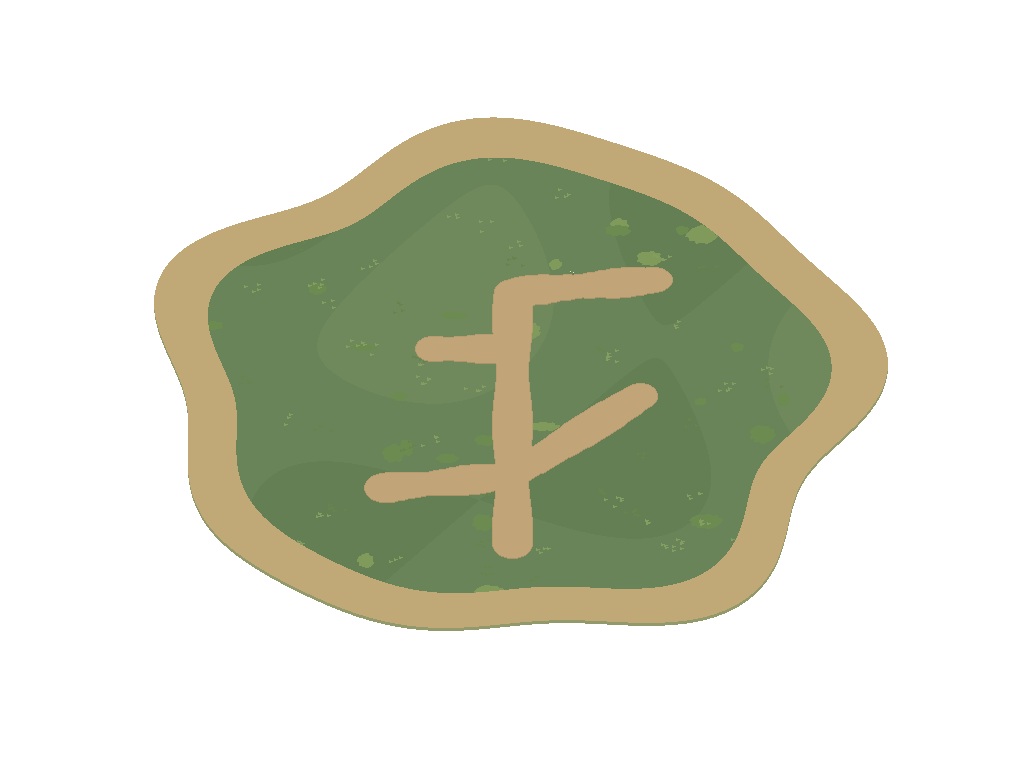
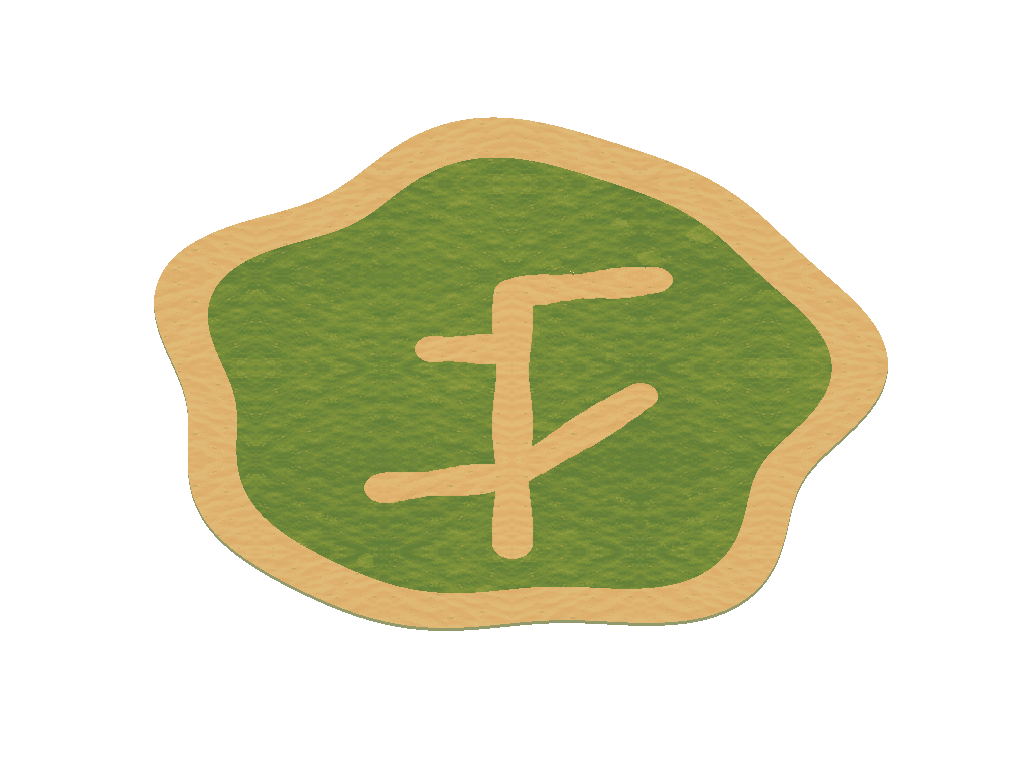
Share village ground materials across the outlying islands

diff --git a/frontend/scripts/pixel_art/place_ground.py b/frontend/scripts/pixel_art/place_ground.py
@@ -7,6 +7,12 @@ from subprocess import check_output
 from random import Random
 from math import sin, cos
 from ground import point
+from place_materials import REGIONAL_MATERIALS, paint_region
+
+SAND=(193,168,119,255)
+GRASS_PATCHES=((107,139,80,255),(128,154,92,255))
+GRASS_TUFTS=((102,132,76,255),(131,158,96,255))
+PATH_PALETTE=((193,165,121,255),(171,151,111,255),(172,148,106,255),(181,157,113,255))
 PATHS={
  'saltreach_harbor': [[(0,19),(0,12),(0,5),(0,-9)],[(-23,0),(-19,0),(-9,-2),(1,-2),(12,-2),(21,-3)],[(-8,10.3),(0,10.3),(9,10.6)],[(3,8.5),(0,8.5)], [(-1,3.5),(0,3.5)]],
  'home_islet': [[(0,14),(0,-12)],[(-8,7.5),(7,7.5)],[(-8,-5.5),(7,-5.5)]],
@@ -24,7 +30,7 @@ def ground(root,id):
     for y in range(h):
         for x in range(w):
             c=classes[y*w+x]
-            if c in [1,2]:p[x,y]=(193,168,119,255) if c==1 else pal[min(2,max(0,int((sin(x/61)+cos(y/53)+sin((x+y)/89)+3)/2)))]
+            if c in [1,2]:p[x,y]=SAND if c==1 else pal[min(2,max(0,int((sin(x/61)+cos(y/53)+sin((x+y)/89)+3)/2)))]
     d=ImageDraw.Draw(im)
     for y in range(2,h-2):
         for x in range(2,w-2):
@@ -37,14 +43,14 @@ def ground(root,id):
         rx=rng.randrange(7,20);ry=rng.randrange(4,11)
         for yy in range(y-ry,y+ry):
             for xx in range(x-rx,x+rx):
-                if classes[yy*w+xx]==2 and ((xx-x)/rx)**2+((yy-y)/ry)**2<.8+.15*sin(xx*.6+yy*.9):p[xx,yy]=(107,139,80,255) if i%3 else (128,154,92,255)
+                if classes[yy*w+xx]==2 and ((xx-x)/rx)**2+((yy-y)/ry)**2<.8+.15*sin(xx*.6+yy*.9):p[xx,yy]=GRASS_PATCHES[0] if i%3 else GRASS_PATCHES[1]
     # Tufts in small clusters of three to five, one dark and one light shade per cluster.
     for i in range(170):
         cx=rng.randrange(20,w-20);cy=rng.randrange(20,h-20);dark=i%2==0
         for k in range(rng.randrange(3,6)):
             x=cx+rng.randrange(-9,10);y=cy+rng.randrange(-5,6)
             if 2<=x<w-4 and 2<=y<h-5 and classes[y*w+x]==2:
-                d.line([(x,y+2),(x,y),(x+1,y+2),(x+3,y+1)],fill='#66844c' if dark else '#839e60')
+                d.line([(x,y+2),(x,y),(x+1,y+2),(x+3,y+1)],fill=GRASS_TUFTS[0] if dark else GRASS_TUFTS[1])
     mask=Image.new('L',(w,h));md=ImageDraw.Draw(mask)
     for route in PATHS[id]:
         for a,b in zip(route,route[1:]):
@@ -56,11 +62,11 @@ def ground(root,id):
     for y in range(3,h-3):
         for x in range(3,w-3):
             if classes[y*w+x] in [1,2] and mp[x,y]:
-                p[x,y]=(193,165,121,255)
-                if id=='saltreach_harbor' and y<550 and (x//8+y//6)%6==0 and x%8<6 and y%6==0:p[x,y]=(171,151,111,255)
+                p[x,y]=PATH_PALETTE[0]
+                if id=='saltreach_harbor' and y<550 and (x//8+y//6)%6==0 and x%8<6 and y%6==0:p[x,y]=PATH_PALETTE[1]
                 # One-pixel rim where the path meets grass: darker below, lighter above.
-                if classes[(y+1)*w+x]==2 and not mp[x,y+1]:p[x,y]=(172,148,106,255)
-                elif classes[y*w+x]==2 and (not mp[x-1,y] or not mp[x+1,y] or not mp[x,y-1]):p[x,y]=(181,157,113,255)
+                if classes[(y+1)*w+x]==2 and not mp[x,y+1]:p[x,y]=PATH_PALETTE[2]
+                elif classes[y*w+x]==2 and (not mp[x-1,y] or not mp[x+1,y] or not mp[x,y-1]):p[x,y]=PATH_PALETTE[3]
     # A few flower clusters beside the paths, cream and rose (gold stays for lights).
     for i in range(60):
         x=rng.randrange(8,w-8);y=rng.randrange(8,h-8)
@@ -68,4 +74,10 @@ def ground(root,id):
         for dx,dy in [(0,0),(3,1),(1,3)][:2+i%2]:
             if classes[(y+dy)*w+x+dx]==2 and not mp[x+dx,y+dy]:
                 p[x+dx,y+dy+1]=(92,120,70,255);p[x+dx,y+dy]=(236,226,196,255) if i%3 else (214,160,160,255)
+    if id in REGIONAL_MATERIALS:
+        return paint_region(im, root, id, {
+            'grass': (*pal, *GRASS_PATCHES, *GRASS_TUFTS),
+            'path': PATH_PALETTE,
+            'sand': (SAND,),
+        })
     return im

diff --git a/frontend/scripts/pixel_art/place_materials.py b/frontend/scripts/pixel_art/place_materials.py
@@ -1,0 +1,59 @@
+"""Lay the original village materials into the existing regional ground colors."""
+from PIL import Image
+
+REGIONAL_MATERIALS = {
+    'saltreach_harbor': ('path', .54),
+    'smugglers_cove': ('sand', .50),
+    'wreck_point': ('sand', .50),
+    'the_teeth': ('sand', .36),
+}
+# Source rectangles and world periods match src/art/village/terrain-materials.js.
+TILES = {
+    'grass': ((1, 1, 626, 626), (128, 92), True),
+    'path': ((628, 1, 1253, 626), (88, 63), False),
+    'sand': ((628, 628, 1253, 1253), (128, 92), True),
+}
+
+
+def tile_surface(atlas, name, canvas_size):
+    crop, period, mirror = TILES[name]
+    width, height = period
+    tile = atlas.crop(crop).resize(period, Image.Resampling.LANCZOS)
+    flipped_x = tile.transpose(Image.Transpose.FLIP_LEFT_RIGHT)
+    flipped_y = tile.transpose(Image.Transpose.FLIP_TOP_BOTTOM)
+    flipped_both = tile.transpose(Image.Transpose.ROTATE_180)
+    tiles = ((tile, flipped_x), (flipped_y, flipped_both))
+    surface = Image.new('RGB', canvas_size)
+    for row, y in enumerate(range(0, surface.height, height)):
+        for column, x in enumerate(range(0, surface.width, width)):
+            surface.paste(tiles[row % 2][column % 2] if mirror else tile, (x, y))
+    return surface
+
+
+def paint_region(image, root, place, palette):
+    path_material, grass_strength = REGIONAL_MATERIALS[place]
+    with Image.open(root / 'public' / 'village' / 'terrain-materials-v1.png') as source:
+        atlas = source.convert('RGB')
+    base = image.convert('RGB')
+    output = base.copy()
+    for name, material, strength in (
+        ('grass', 'grass', grass_strength), ('path', path_material, .55), ('sand', 'sand', .52),
+    ):
+        colors = set(palette[name])
+        mask = Image.frombytes('L', base.size, bytes(255 if pixel in colors else 0 for pixel in image.getdata()))
+        texture = tile_surface(atlas, material, base.size)
+        # Limit palette size per surface so the old regions still ship as small PNGs.
+        styled = Image.blend(base, texture, strength).quantize(colors=72, dither=Image.Dither.NONE)
+        output.paste(styled.convert('RGB'), mask=mask)
+    output.putalpha(image.getchannel('A'))
+    return index_region(output)
+
+
+def index_region(image):
+    """Store the baked palette without changing any of its RGBA pixels."""
+    colors = sorted(color for _, color in image.getcolors(256))
+    indices = {color: index for index, color in enumerate(colors)}
+    indexed = Image.frombytes('P', image.size, bytes(indices[pixel] for pixel in image.getdata()))
+    indexed.putpalette([channel for color in colors for channel in color[:3]])
+    indexed.info['transparency'] = bytes(color[3] for color in colors)
+    return indexed

diff --git a/frontend/ASSETS.md b/frontend/ASSETS.md
@@ -70,6 +70,8 @@ Every row is a distinct original PNG in `public/pixel/`. Dimensions and anchors 
 
 ## Edit, reproduce and inspect
 
+Saltreach Harbor, Smugglers’ Cove, Wreck Point and The Teeth use the original Home Islet grass, sand and paving from `public/village/terrain-materials-v1.png`. `scripts/pixel_art/place_materials.py` tones the materials for each location and bakes them onto the existing ground and path pixels. The indexed PNGs preserve the original 1024 × 768 dimensions and transparency, with no additional runtime textures.
+
 From `frontend/`, run `python3 scripts/pixel_art/generate.py`. Pillow is an offline authoring dependency; playing, building and JS testing require no Python. Sources live in `scripts/pixel_art/`: common.py, nature.py, buildings.py, people.py, props.py, ground.py, destinations.py, nautical.py, settlements.py, case_places.py, place_ground.py, chart.py and generate.py. The Node helpers export canonical land masks from terrain.js and places/surfaces.js; visual shorelines and walkability use the same functions.
 
 The world textures use nearest sampling without mipmaps. The catalogue preserves a logical 16-pixel world grid while detailed sources use 64 pixels per world unit. PNG alpha supplies transparent edges and contact shadows. The chart and sailing scene retain their original art. UI text is separate HTML with readable font sizes, as Nils requested.
